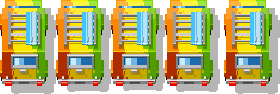
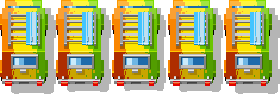
add maps

Changed region(s): [[0.3714, 0.0, 0.8, 0.9787], [0.4857, 0.0, 0.5143, 0.0213]]

diff --git a/core/src/com/nicholaschirkevich/game/enums/SideObjectType.java b/core/src/com/nicholaschirkevich/game/enums/SideObjectType.java
@@ -11,17 +11,17 @@ import java.util.Arrays;
  * Created by Nikolas on 03.07.2016.
  */
 public enum SideObjectType {
-    ROAD_1_BUSH_1_ID_LEFT(Constants.ROAD_1_BUSH_1_LEFT_ID, 10, 10, new Vector3(0, 1200, 0), new Vector3(0, 1200, 0),160),
-    ROAD_1_BUSH_2_ID_LEFT(Constants.ROAD_1_BUSH_2_LEFT_ID, 10, 10, new Vector3(0, 1200, 0), new Vector3(0, 1200, 0),160),
-    ROAD_1_BUSH_1_ID_RIGHT(Constants.ROAD_1_BUSH_1_RIGHT_ID, 10, 10, new Vector3(260, 1200, 0), new Vector3(260, 1200, 0),160),
-    ROAD_1_BUSH_2_ID_RIGHT(Constants.ROAD_1_BUSH_2_RIGHT_ID, 10, 10, new Vector3(260, 1200, 0), new Vector3(260, 1200, 0),160),
+    ROAD_1_BUSH_1_ID_LEFT(Constants.ROAD_1_BUSH_1_LEFT_ID, 20, 20, new Vector3(-10, 1200, 0), new Vector3(-10, 1200, 0),160),
+    ROAD_1_BUSH_2_ID_LEFT(Constants.ROAD_1_BUSH_2_LEFT_ID, 20, 20, new Vector3(-10, 1200, 0), new Vector3(-10, 1200, 0),160),
+    ROAD_1_BUSH_1_ID_RIGHT(Constants.ROAD_1_BUSH_1_RIGHT_ID, 20, 20, new Vector3(260, 1200, 0), new Vector3(260, 1200, 0),160),
+    ROAD_1_BUSH_2_ID_RIGHT(Constants.ROAD_1_BUSH_2_RIGHT_ID, 20, 20, new Vector3(260, 1200, 0), new Vector3(260, 1200, 0),160),
     ROAD_1_TILE_ID(Constants.ROAD_1_TILE_ID, 10, 10, new Vector3(20, 800, 0), new Vector3(20, 800, 0),160),
-    ROAD_1_LIGHTER_L_ID(Constants.ROAD_1_LIGHTER_L_ID, 10, 10, new Vector3(-30, 1200, 0), new Vector3(-30, 1200, 0),160),
-    ROAD_1_LIGHTER_R_ID(Constants.ROAD_1_LIGHTER_R_ID, 10, 10, new Vector3(220, 1200, 0), new Vector3(220, 1200, 0),160),
-    ROAD_1_STUMP_ID_LEFT(Constants.ROAD_1_STUMP_LEFT_ID, 10, 10, new Vector3(0, 1200, 0), new Vector3(0, 1200, 0),160),
-    ROAD_1_STUMP_ID_RIGHT(Constants.ROAD_1_STUMP_RIGHT_ID, 10, 10, new Vector3(260, 1200, 0), new Vector3(260, 1200, 0),160),
-    ROAD_1_TREE_1_ID_LEFT(Constants.ROAD_1_TREE_1_LEFT_ID, 10, 10, new Vector3(0, 1200, 0), new Vector3(0, 1200, 0),160),
-    ROAD_1_TREE_1_ID_RIGHT(Constants.ROAD_1_TREE_1_RIGHT_ID, 10, 10, new Vector3(260, 1200, 0), new Vector3(260, 1200, 0),160),
+    ROAD_1_LIGHTER_L_ID(Constants.ROAD_1_LIGHTER_L_ID, 0, 0, new Vector3(-30, 1200, 0), new Vector3(-30, 1200, 0),160),
+    ROAD_1_LIGHTER_R_ID(Constants.ROAD_1_LIGHTER_R_ID, 0, 0, new Vector3(210, 1200, 0), new Vector3(210, 1200, 0),160),
+    ROAD_1_STUMP_ID_LEFT(Constants.ROAD_1_STUMP_LEFT_ID, 20, 20, new Vector3(-10, 1200, 0), new Vector3(-10, 1200, 0),160),
+    ROAD_1_STUMP_ID_RIGHT(Constants.ROAD_1_STUMP_RIGHT_ID, 20, 20, new Vector3(260, 1200, 0), new Vector3(260, 1200, 0),160),
+    ROAD_1_TREE_1_ID_LEFT(Constants.ROAD_1_TREE_1_LEFT_ID, 20, 20, new Vector3(-10, 1200, 0), new Vector3(-10, 1200, 0),160),
+    ROAD_1_TREE_1_ID_RIGHT(Constants.ROAD_1_TREE_1_RIGHT_ID, 20, 20, new Vector3(260, 1200, 0), new Vector3(260, 1200, 0),160),
     ROAD_2_BOARD_ID(Constants.ROAD_2_BOARD_ID, 10, 10, new Vector3(20, 800, 0), new Vector3(20, 800, 0),60),
     ROAD_2_CACTUS_1_ID(Constants.ROAD_2_CACTUS_1_ID, 10, 10, new Vector3(20, 800, 0), new Vector3(20, 800, 0),60),
     ROAD_2_CACTUS_2_ID(Constants.ROAD_2_CACTUS_2_ID, 10, 10, new Vector3(20, 800, 0), new Vector3(20, 800, 0),60),

diff --git a/core/src/com/nicholaschirkevich/game/model/side_objects/NewRoad.java b/core/src/com/nicholaschirkevich/game/model/side_objects/NewRoad.java
@@ -88,12 +88,32 @@ public class NewRoad {
         leftShape.setAsBox(20, GameRuners.HEIGHT / 2);
 
 
+
+
         FixtureDef leftFixtureDef = new FixtureDef();
         leftFixtureDef.shape = leftShape;
         leftFixtureDef.filter.categoryBits = Constants.ROAD_SIDE_LEFT;
         leftFixtureDef.filter.maskBits = Constants.WORLD_ENTITY;
         leftFixtureDef.density = 0;
         leftSideBody.createFixture(leftFixtureDef);
+
+        BodyDef bodyDefSideRight = new BodyDef();
+        bodyDefSideRight.type = BodyDef.BodyType.DynamicBody;
+        bodyDefSideRight.position.set(280, GameRuners.HEIGHT / 2);
+
+        Body rightSideBody = world.createBody(bodyDefSideRight);
+        PolygonShape rightShape = new PolygonShape();
+        rightShape.setAsBox(20, GameRuners.HEIGHT / 2);
+
+
+
+
+        FixtureDef rightFixtureDef = new FixtureDef();
+        rightFixtureDef.shape = rightShape;
+        rightFixtureDef.filter.categoryBits = Constants.ROAD_SIDE_LEFT;
+        rightFixtureDef.filter.maskBits = Constants.WORLD_ENTITY;
+        rightFixtureDef.density = 0;
+        rightSideBody.createFixture(rightFixtureDef);
     }
 
     public void initialRoad() {
@@ -164,6 +184,7 @@ public class NewRoad {
     }
 
     public void update(Camera camera, float dt) {
+
 
 
         if (camera.position.y - (camera.viewportHeight / 2) > posRoad1.y + roadTexture.getHeight()) {

diff --git a/core/src/com/nicholaschirkevich/game/util/GameManager.java b/core/src/com/nicholaschirkevich/game/util/GameManager.java
@@ -331,12 +331,14 @@ public class GameManager {
         sideObjectsLeftRoad1ArrayListType.add(SideObjectType.ROAD_1_BUSH_2_ID_LEFT);
 
         sideObjectsLeftRoad1ArrayListType.add(SideObjectType.ROAD_1_TREE_1_ID_LEFT);
+        sideObjectsLeftRoad1ArrayListType.add(SideObjectType.ROAD_1_STUMP_ID_LEFT);
 
         ArrayList<SideObjectType> sideObjectsRightRoad1ArrayListType = new ArrayList<SideObjectType>();
         sideObjectsRightRoad1ArrayListType.add(SideObjectType.ROAD_1_BUSH_1_ID_RIGHT);
         sideObjectsRightRoad1ArrayListType.add(SideObjectType.ROAD_1_BUSH_2_ID_RIGHT);
 
         sideObjectsRightRoad1ArrayListType.add(SideObjectType.ROAD_1_TREE_1_ID_RIGHT);
+        sideObjectsRightRoad1ArrayListType.add(SideObjectType.ROAD_1_STUMP_ID_RIGHT);
 
         ArrayList<SideObjectType> staticSideRightObjectsArrayList = new ArrayList<SideObjectType>();
         SideObjectType sideObjectLighterLType =SideObjectType.ROAD_1_LIGHTER_L_ID;
